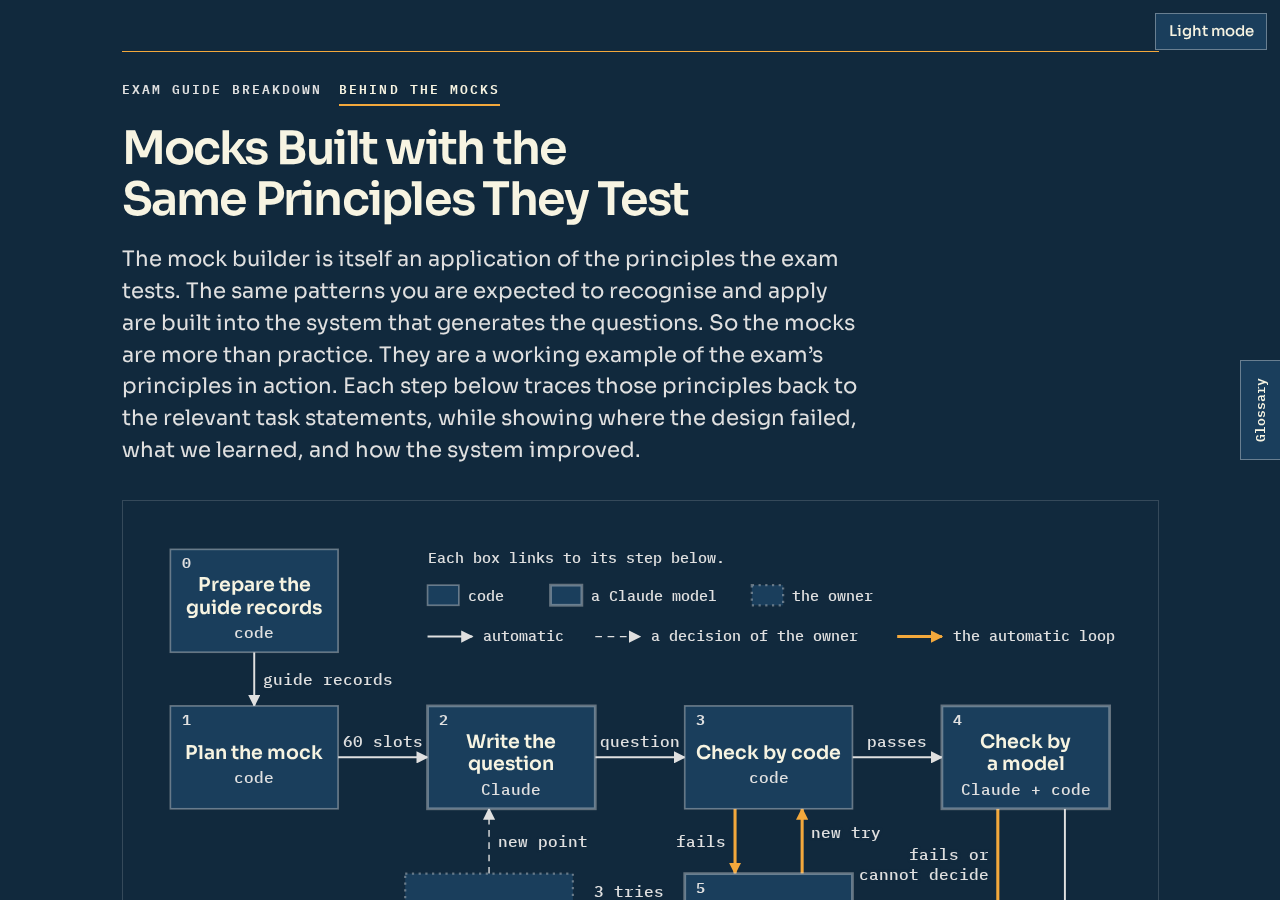
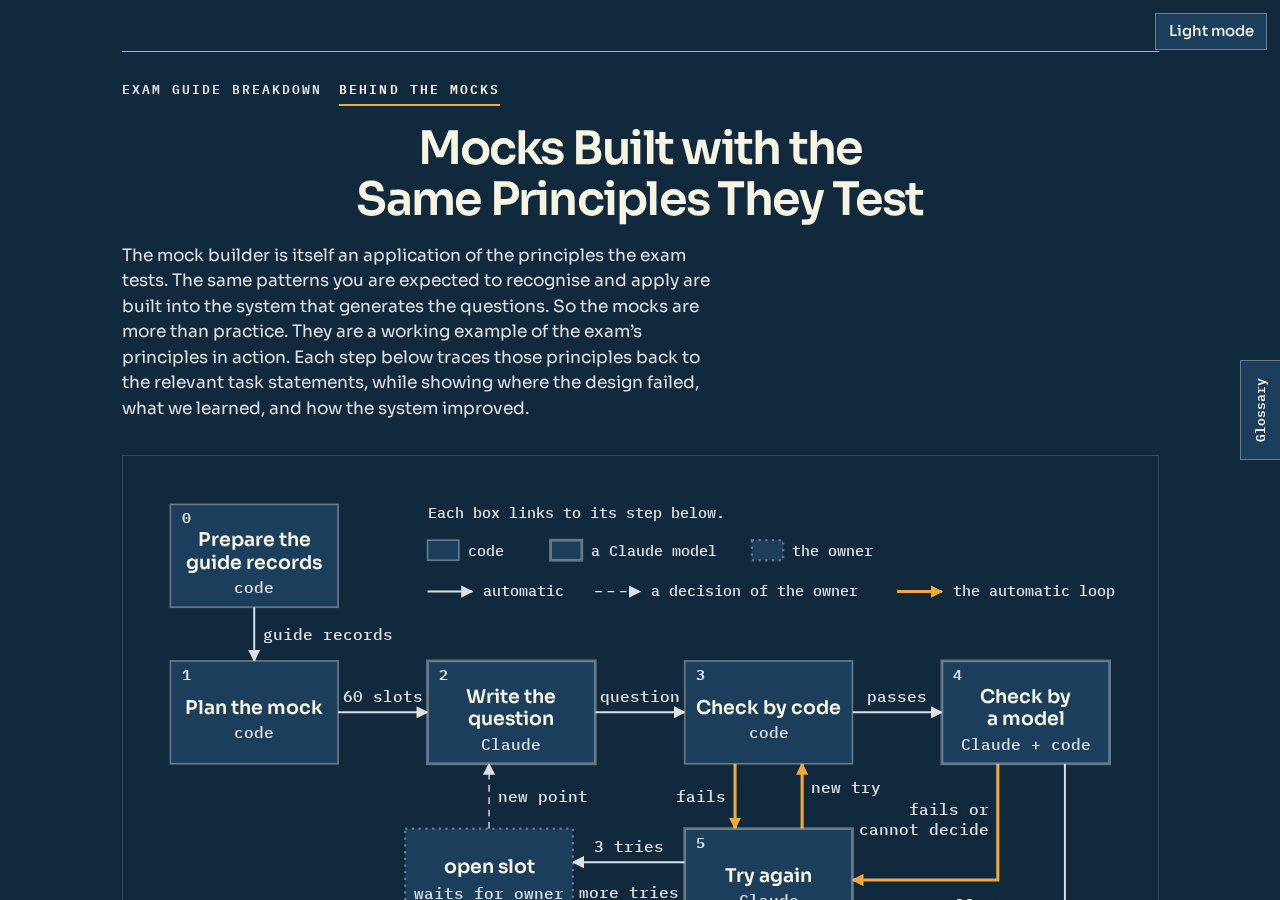
Tab 2: the title in the center, and the paragraph of the owner in body size (owner, 15 October 2026). check-pages prints All checks passed for tab 2

Changed region(s): [[0.125, 0.56, 0.875, 1.0], [0.0938, 0.28, 0.6562, 0.5289], [0.0938, 0.1244, 0.7188, 0.2489]]

diff --git a/academy/pages/behind-the-mocks.html b/academy/pages/behind-the-mocks.html
@@ -18,8 +18,8 @@
 <main>
 <header id="top">
   <nav class="tabs" aria-label="Tabs"><a href="exam-guide-breakdown.html">Exam guide breakdown</a><span aria-current="page">Behind the mocks</span></nav>
-  <h1>Mocks Built with the Same Principles They Test</h1>
-  <p class="lead">The mock builder is itself an application of the principles the exam tests. The same patterns you are expected to recognise and apply are built into the system that generates the questions. So the mocks are more than practice. They are a working example of the exam&rsquo;s principles in action. Each step below traces those principles back to the relevant task statements, while showing where the design failed, what we learned, and how the system improved.</p>
+  <h1 class="title-center">Mocks Built with the Same Principles They Test</h1>
+  <p class="lead intro">The mock builder is itself an application of the principles the exam tests. The same patterns you are expected to recognise and apply are built into the system that generates the questions. So the mocks are more than practice. They are a working example of the exam&rsquo;s principles in action. Each step below traces those principles back to the relevant task statements, while showing where the design failed, what we learned, and how the system improved.</p>
 </header>
 
 <figure class="ve-steps" data-figure="builder" id="top-fig-a">

diff --git a/academy/pages/academy.css b/academy/pages/academy.css
@@ -385,3 +385,6 @@ details.sources > summary { cursor: pointer; }
 details.sources > ul { margin-top: var(--s-2); }
 @media (max-width: 34rem) { .glossary-btn { writing-mode: horizontal-tb; transform: none; top: auto; bottom: var(--s-4); right: var(--s-4); border-left: 1px solid var(--border-bright); padding: var(--s-2) var(--s-4); } .glossary-btn[aria-expanded="true"] { box-shadow: inset 0 -3px 0 var(--accent); } }
 @media print { .glossary-btn { display: none; } }
+/* tab 2: the title in the center, and the paragraph of the owner in body size (owner, 15 October 2026) */
+h1.title-center { text-align: center; margin-inline: auto; }
+.lead.intro { font-size: var(--t-body); }

diff --git a/academy/build/make-behind-the-mocks.py b/academy/build/make-behind-the-mocks.py
@@ -1992,8 +1992,8 @@ LIMITS = """<section class="parts" id="limits" aria-label="What this shows and w
 BODY = """<main>
 <header id="top">
   <nav class="tabs" aria-label="Tabs"><a href="%(tab1)s">Exam guide breakdown</a><span aria-current="page">Behind the mocks</span></nav>
-  <h1>%(title)s</h1>
-  <p class="lead">%(para)s</p>
+  <h1 class="title-center">%(title)s</h1>
+  <p class="lead intro">%(para)s</p>
 </header>
 %(fig1)s
 <section class="parts" id="steps" aria-label="The 9 steps">

diff --git a/academy/journal.md b/academy/journal.md
@@ -15,6 +15,7 @@ One entry for each work session. Newest entry first.
   - Batch 6: sentences over 25 words went from 151 to 34. The 34 are false hits of the count script and the paragraph of the owner.
 - Open for the owner: the Overview of 3.2 does not name context: fork (check B3). The paragraphs that read as one long underline (the owner said to take this next).
 - Pushed to GitHub at 29f95da, with the yes of the owner. The owner then asked if the reader checks had found that the text is too dense. They had not: their agents read extracted text, so they never saw the dotted lines. The owner chose, for now, to show the dots only on the fact under the pointer (first on the paragraph, then, at the request of the owner, on the one fact). A touch screen keeps them. The owner agrees that the real cause is text written as a chain of sourced facts, and declined a trial rewrite of part 1.3 for now.
+- Tab 2: the title is in the center, and the paragraph of the owner below it has body size (owner, 15 October 2026).
 - The figure number (for example "Fig. A") now stands on its own line above the caption, on all figures (owner, 15 October 2026). The owner kept the caption of Fig. A as it is.
 - Decision 0044: the glossary of each tab is a panel at the right side, opened by a fixed button "Glossary". Each list of sources is a closed section with its count. "Sources of the top" is now "Sources of the introduction". check-pages prints "All checks passed." for both tabs.
 
